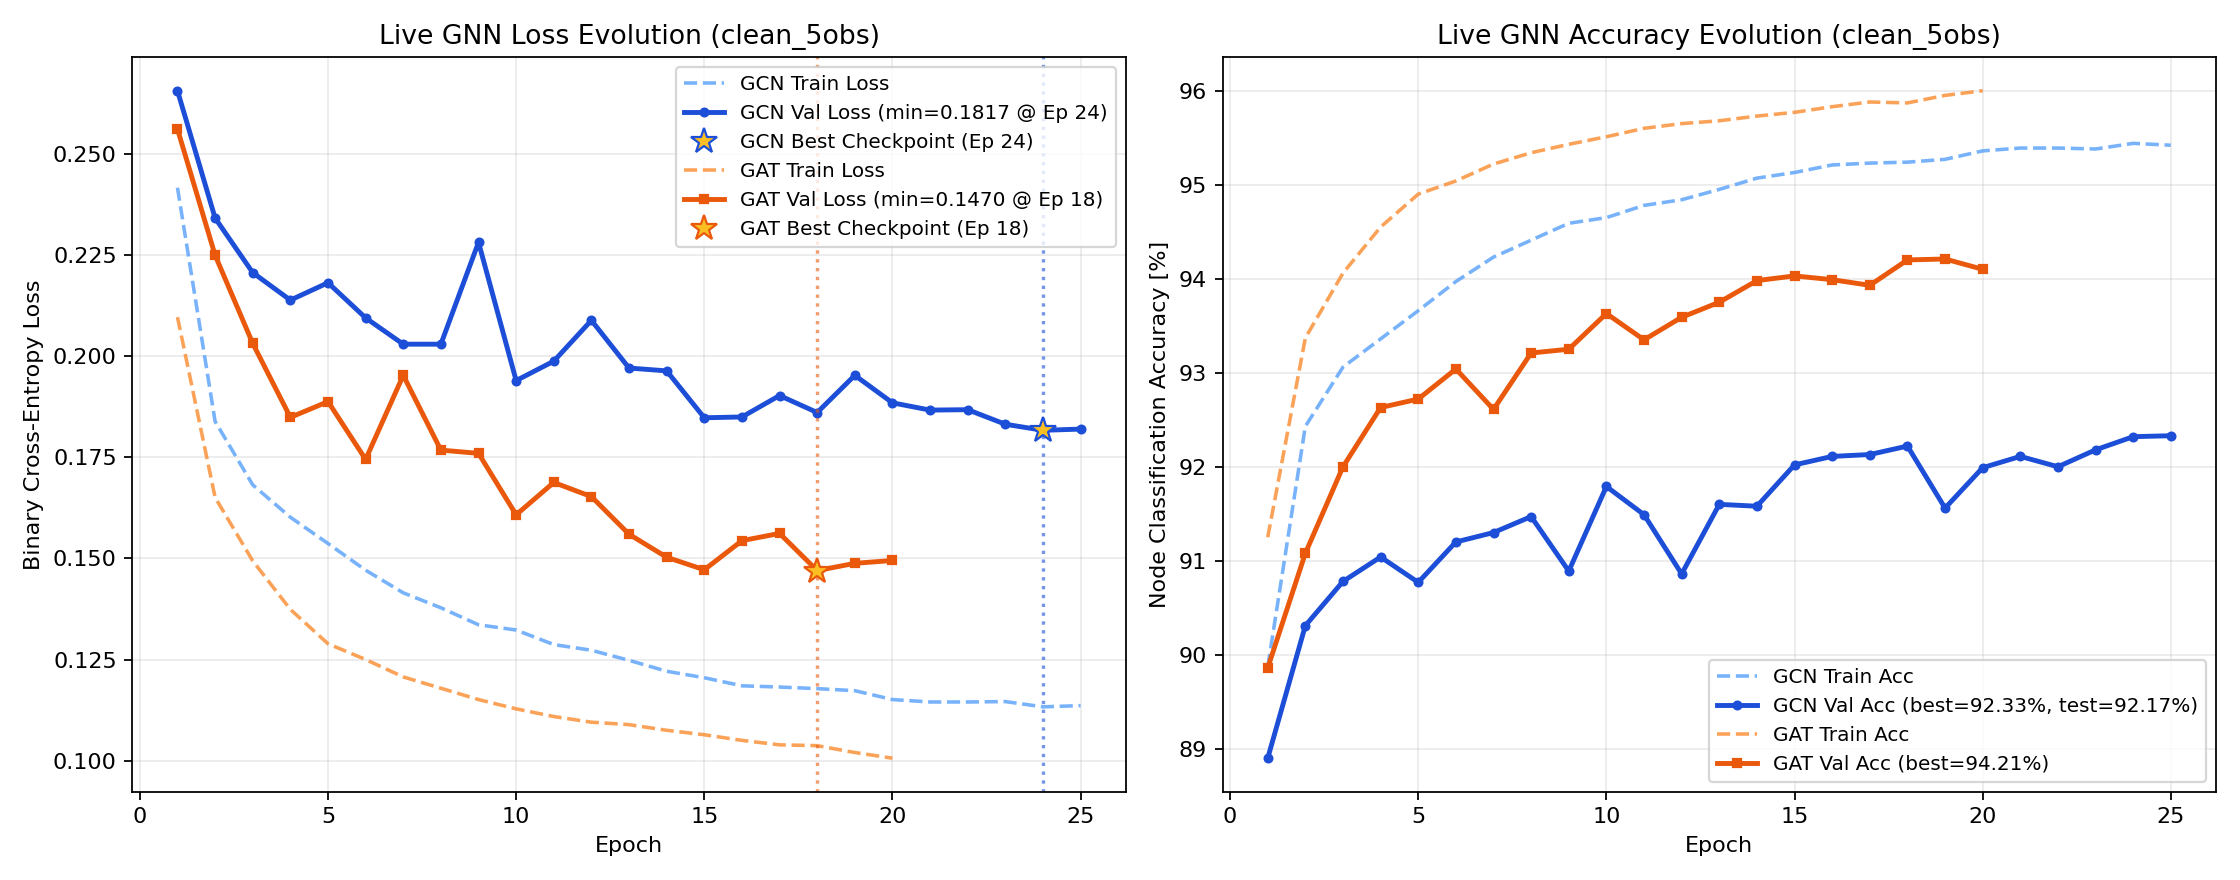
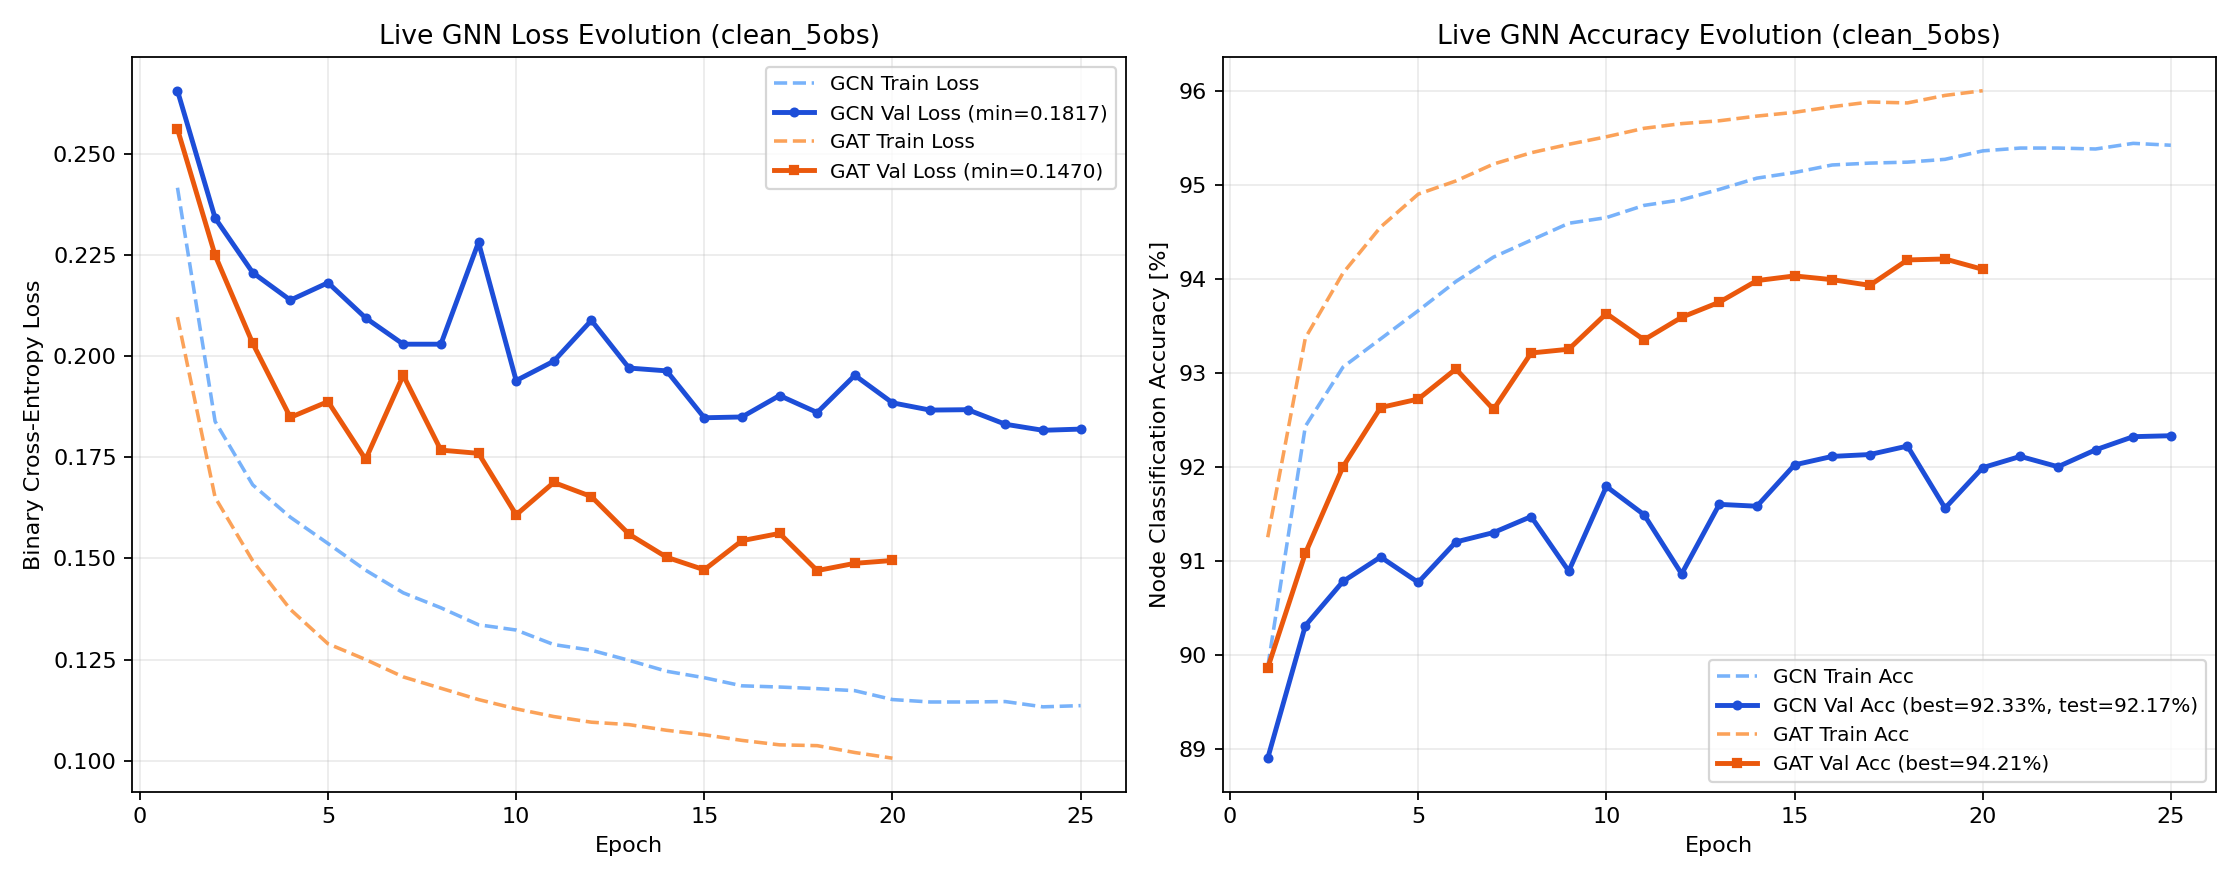
Update Study 2 live status and figures (2026-11-11 17:40)

Changed region(s): [[0.3125, 0.0614, 0.5, 0.2761], [0.3438, 0.6443, 0.375, 0.675]]

diff --git a/LIVE_STATUS.md b/LIVE_STATUS.md
@@ -1,7 +1,7 @@
 # Live Pipeline Status on Jed
 
 ```text
-[2026-11-11 17:38:08] Study 2 Pipeline Status on Jed
+[2026-11-11 17:40:16] Study 2 Pipeline Status on Jed
 - Step 1 (Plummer ICs): 81 / 81 ready
 - Step 2 (SWIFT Runs): 81 / 81 completed (101 snapshots)
 - Step 3 (Observables): Labels=81/81 | Clean=81/81 | GaiaNoisy=81/81
@@ -9,27 +9,19 @@
 - Step 5/6 Live GNN Training Progress:
   * clean_5obs/training_metrics_gat_clean.log: Ep 020 | Train 0.1006 (96.00%) | Val 0.1495 (94.10%, Best=94.21%) | Test=In progress
   * clean_5obs/training_metrics_gcn_clean.log: Ep 025 | Train 0.1136 (95.42%) | Val 0.1820 (92.33%, Best=92.33%) | Test=92.17%
-- Saved Model Checkpoints (.pth): 2 mirrored in GNN-jed/trained_models/study2/weights/
 
 SLURM Queue:
 JOBID  PARTITION                   NAME   ST       TIME  NODES NODELIST(REASON)
 40998767_[0-4%   academic      Study2_Step6_4Obs   PD       0:00      2 (Dependency)
-      40998766   academic   Study2_Step5_Train81    R 3-01:06:50      2 jst[072,076]
+      40998766   academic   Study2_Step5_Train81    R 3-01:10:30      2 jst[072,076]
 ```
 
 ## Live Neural Network Training Metrics
 
-| Experiment | Architecture | Latest Epoch | Train Loss | Train Acc | Val Loss | Val Acc | Best Val Acc | Core FNR | Test Acc | Test F1 |
-| :--- | :---: | :---: | :---: | :---: | :---: | :---: | :---: | :---: | :---: | :---: |
-| `clean_5obs` | **GAT** | 20 | 0.1006 | 96.00% | 0.1495 | 94.10% | **94.21%** | - | **In progress** | - |
-| `clean_5obs` | **GCN** | 25 | 0.1136 | 95.42% | 0.1820 | 92.33% | **92.33%** | - | **92.17%** | 0.8886 |
-
-## Saved Model Weights (`.pth` Checkpoints)
-
-| Checkpoint | Size | Experiment Path | Central Archive Mirror |
-| :--- | :---: | :--- | :--- |
-| `best_gat_clean.pth` | 361.2 KB | `GNN-jed/trained_models/study2/clean_5obs/best_gat_clean.pth` | `GNN-jed/trained_models/study2/weights/best_gat_clean.pth` |
-| `best_gcn_clean.pth` | 120.0 KB | `GNN-jed/trained_models/study2/clean_5obs/best_gcn_clean.pth` | `GNN-jed/trained_models/study2/weights/best_gcn_clean.pth` |
+| Experiment | Architecture | Latest Epoch | Train Loss | Train Acc | Val Loss | Val Acc | Best Val Acc | Test Acc | Test F1 |
+| :--- | :---: | :---: | :---: | :---: | :---: | :---: | :---: | :---: | :---: |
+| `clean_5obs` | **GAT** | 20 | 0.1006 | 96.00% | 0.1495 | 94.10% | **94.21%** | **In progress** | - |
+| `clean_5obs` | **GCN** | 25 | 0.1136 | 95.42% | 0.1820 | 92.33% | **92.33%** | **92.17%** | 0.8886 |
 
 ## Real-Time GNN Learning Curves (Loss & Accuracy Evolution)
 
